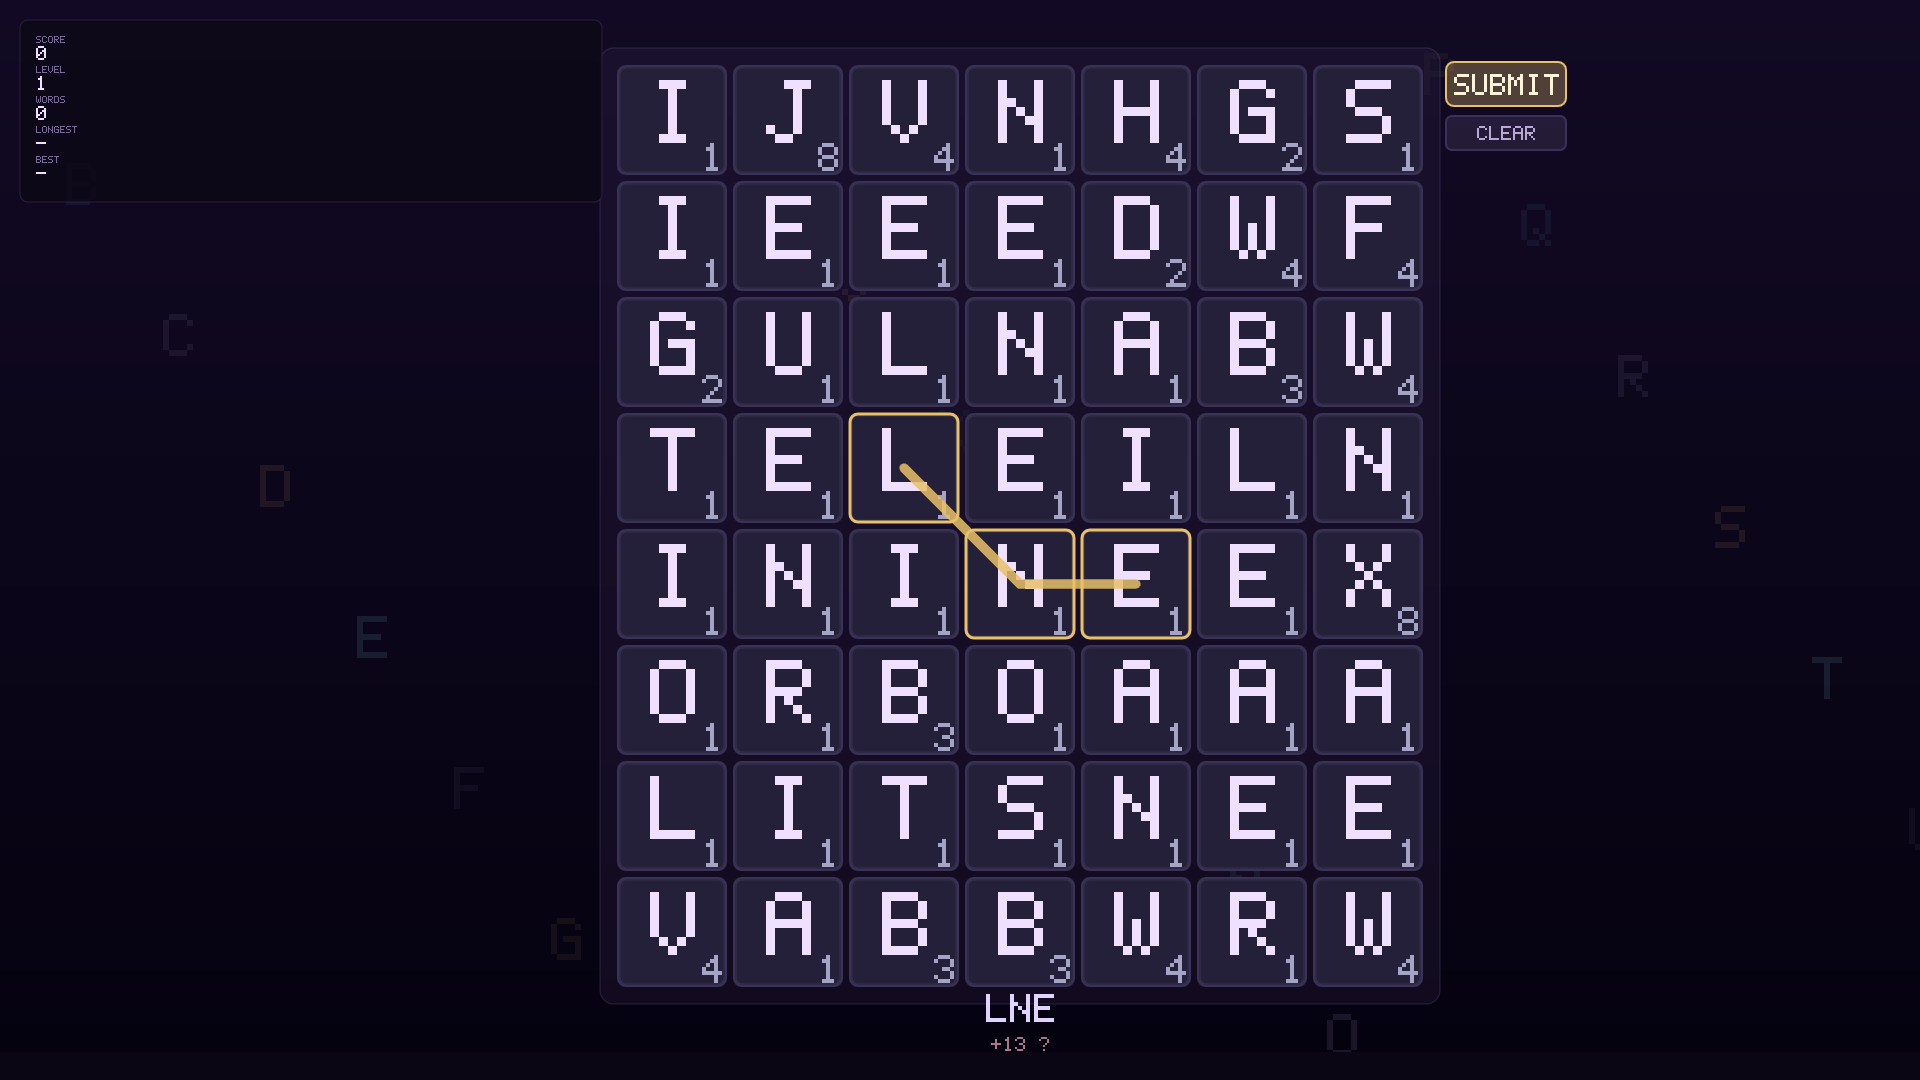
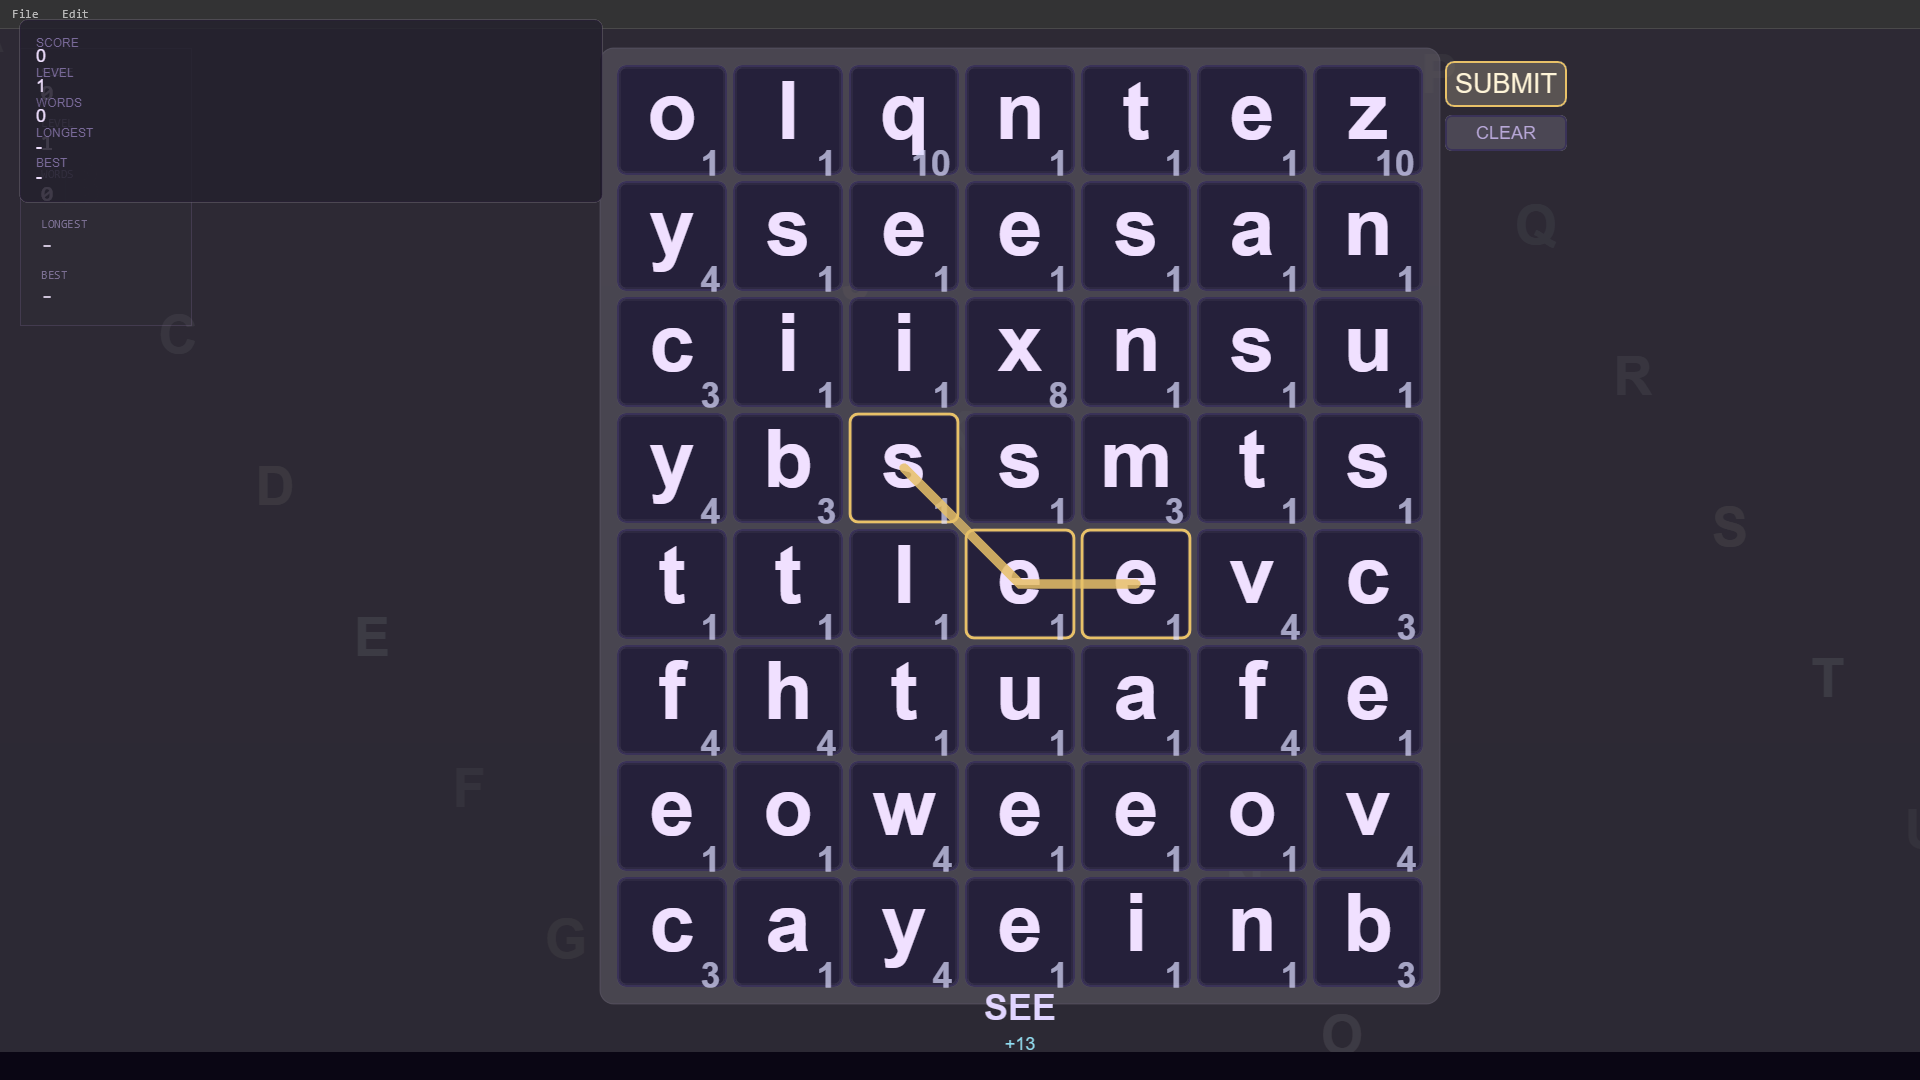
wordspire, fintank: drop bitmap pixelfont, use ctx.fillText
The pixelfont.js files were added on the mistaken premise that ctx.fillText
doesn't render in bro-headless screenshots. It does — confirmed with a
minimal repro. Replace the 5x7 bitmap implementation with a thin W.Text
wrapper around ctx.fillText (draw / drawCentered / measure).

diff --git a/apps/wordspire/board.js b/apps/wordspire/board.js
@@ -717,22 +717,22 @@ W.Board = (function () {
 
         // Pixel-font letter (centered).
         var letterScale = Math.max(2, Math.floor(cell / 12));
-        W.PixelFont.drawCentered(ctx, tile.letter,
+        W.Text.drawCentered(ctx, tile.letter,
                                  rx + w / 2, ry + h / 2 - letterScale,
                                  letterScale, text);
 
         // Letter-value chip bottom-right.
         var v = W.Scoring.letterValue(tile.letter);
         var vScale = Math.max(1, Math.floor(cell / 28));
-        var vw = W.PixelFont.measure(String(v), vScale);
-        W.PixelFont.draw(ctx, String(v),
+        var vw = W.Text.measure(String(v), vScale);
+        W.Text.draw(ctx, String(v),
                          rx + w - vw - 4, ry + h - 7 * vScale - 3,
                          vScale, 'rgba(220,220,255,0.7)');
 
         // Multiplier chip top-left (x2/x3/...).
         if (tile.mult > 1) {
             var mScale = Math.max(1, Math.floor(cell / 28));
-            W.PixelFont.draw(ctx, 'x' + tile.mult, rx + 4, ry + 3, mScale, border);
+            W.Text.draw(ctx, 'x' + tile.mult, rx + 4, ry + 3, mScale, border);
         }
     }
 
@@ -796,7 +796,7 @@ W.Board = (function () {
             ctx.save();
             ctx.globalAlpha = a;
             var ls = Math.max(2, Math.floor(r.cell * (0.08 + (1 - a) * 0.06)));
-            W.PixelFont.drawCentered(ctx, pa.letter, px, py, ls, '#e8c168');
+            W.Text.drawCentered(ctx, pa.letter, px, py, ls, '#e8c168');
             ctx.restore();
         }
 
@@ -808,19 +808,19 @@ W.Board = (function () {
         var word = pathToWord(currentChain, grid);
         if (word) {
             var previewScale = 4;
-            W.PixelFont.drawCentered(ctx, word.toUpperCase(),
+            W.Text.drawCentered(ctx, word.toUpperCase(),
                                      r.x + r.cell * COLS / 2, previewY,
                                      previewScale, '#e0d4ff');
             var predicted = W.Scoring.computeWordScore(word, pathToTiles(currentChain, grid));
             var valid = W.Dictionary.isWord(word);
-            W.PixelFont.drawCentered(ctx, '+' + predicted + (valid ? '' : ' ?'),
+            W.Text.drawCentered(ctx, '+' + predicted + (valid ? '' : ' ?'),
                                      r.x + r.cell * COLS / 2, previewY + 36,
                                      2, valid ? '#8cdff6' : '#aa7788');
         } else {
             var hint = (mode === 'puzzle' && puzzleTarget)
                 ? ('TARGET: ' + puzzleTarget.toUpperCase())
                 : 'CHAIN 3+ LETTERS AND SUBMIT';
-            W.PixelFont.drawCentered(ctx, hint,
+            W.Text.drawCentered(ctx, hint,
                                      r.x + r.cell * COLS / 2, previewY + 8,
                                      2, '#554966');
         }
@@ -847,7 +847,7 @@ W.Board = (function () {
         ctx.strokeStyle = currentChain.length >= 3 ? '#e8c168' : '#3a3258';
         ctx.lineWidth = 2;
         ctx.stroke();
-        W.PixelFont.drawCentered(ctx, 'SUBMIT', bx + bw / 2, by + bh / 2, 3,
+        W.Text.drawCentered(ctx, 'SUBMIT', bx + bw / 2, by + bh / 2, 3,
                                  currentChain.length >= 3 ? '#fff4d8' : '#7a6a9a');
 
         var cx2 = bx, cy2 = by + bh + 10;
@@ -856,7 +856,7 @@ W.Board = (function () {
         ctx.fill();
         ctx.strokeStyle = '#3a3258';
         ctx.stroke();
-        W.PixelFont.drawCentered(ctx, 'CLEAR', cx2 + bw / 2, cy2 + 17, 2, '#b8a8d8');
+        W.Text.drawCentered(ctx, 'CLEAR', cx2 + bw / 2, cy2 + 17, 2, '#b8a8d8');
     }
 
     function drawHudPanel(ctx, r) {
@@ -886,8 +886,8 @@ W.Board = (function () {
         ctx.stroke();
         var yy = y + pad;
         for (var i = 0; i < lines.length; i++) {
-            W.PixelFont.draw(ctx, lines[i][0], x + pad, yy, 1, '#7a6a9a');
-            W.PixelFont.draw(ctx, lines[i][1], x + pad, yy + 10, 2, '#f0e0ff');
+            W.Text.draw(ctx, lines[i][0], x + pad, yy, 1, '#7a6a9a');
+            W.Text.draw(ctx, lines[i][1], x + pad, yy + 10, 2, '#f0e0ff');
             yy += rowH;
         }
 
@@ -908,7 +908,7 @@ W.Board = (function () {
                 ctx.fill();
                 ctx.strokeStyle = '#802015';
                 ctx.stroke();
-                W.PixelFont.draw(ctx, '! BURNING TILE !', x + 10, wy + 9, 2, '#ff4b3d');
+                W.Text.draw(ctx, '! BURNING TILE !', x + 10, wy + 9, 2, '#ff4b3d');
             }
         }
     }

diff --git a/apps/fintank/screens.js b/apps/fintank/screens.js
@@ -57,27 +57,30 @@ F.Screens = (function () {
         ctx.globalAlpha = 1;
     }
 
-    function drawMenu(ctx, Wd, Hd, title, subtitle, items, selIdx, hint) {
+    // DOM overlays (#overlay > .screen) don't composite into bro-headless
+    // screenshots — only the canvas scene layer is captured. So title / slot
+    // / gameover menus are also drawn on canvas. The DOM overlay still owns
+    // click + keyboard navigation; this is the visual twin.
+    function drawMenu(ctx, Wd, Hd, title, subtitle, items, selectedIdx, hint) {
         var cy = Math.floor(Hd * 0.18);
-        W.PixelFont.drawCentered(ctx, title, Wd / 2, cy, 8, '#f2c95b');
+        W.Text.drawCentered(ctx, title, Wd / 2, cy, 8, '#f2c95b');
         if (subtitle) {
-            W.PixelFont.drawCentered(ctx, subtitle, Wd / 2, cy + 64, 3, '#a8c8dc');
+            W.Text.drawCentered(ctx, subtitle, Wd / 2, cy + 64, 3, '#a8c8dc');
         }
         var topY = Math.floor(Hd * 0.5);
         for (var i = 0; i < items.length; i++) {
-            var isSel = (i === selIdx);
+            var isSel = (i === selectedIdx);
             var y = topY + i * 46;
             if (isSel) {
                 ctx.fillStyle = 'rgba(242,201,91,0.18)';
                 ctx.fillRect(Wd * 0.2, y - 12, Wd * 0.6, 34);
             }
-            W.PixelFont.drawCentered(ctx, items[i],
-                                     Wd / 2, y + 4,
-                                     isSel ? 4 : 3,
-                                     isSel ? '#fff8d8' : '#6a8ca8');
+            W.Text.drawCentered(ctx, items[i], Wd / 2, y + 4,
+                                isSel ? 4 : 3,
+                                isSel ? '#fff8d8' : '#6a8ca8');
         }
         if (hint) {
-            W.PixelFont.drawCentered(ctx, hint, Wd / 2, Hd - 40, 2, '#4a6a80');
+            W.Text.drawCentered(ctx, hint, Wd / 2, Hd - 40, 2, '#4a6a80');
         }
     }
 
@@ -127,13 +130,25 @@ F.Screens = (function () {
             for (var i = 1; i <= 3; i++) {
                 var s = F.Economy.loadSlot(i);
                 var fresh = (s.day === 1 && s.fish.length === 0 && s.coins === 200 && !s.bestDay);
-                labels.push('SLOT ' + i + ' - ' + (fresh ? 'NEW' : ('DAY ' + s.day + ' - ' + s.coins + 'C - ' + s.fish.length + ' FISH')));
+                labels.push('SLOT ' + i + ' - ' + (fresh ? 'NEW' :
+                    ('DAY ' + s.day + ' - ' + s.coins + 'C - ' + s.fish.length + ' FISH')));
             }
             labels.push('BACK');
             drawMenu(ctx, Wd, Hd, 'SAVE SLOT', '',
                      labels, selIdx('slots'), 'DEL TO ERASE SELECTED SLOT');
         },
-        refresh: function () {},
+        refresh: function () {
+            var items = mgr.getMenuItems('slots');
+            for (var i = 0; i < items.length; i++) {
+                var slot = items[i].getAttribute('data-slot');
+                if (!slot) continue;
+                var n = parseInt(slot, 10);
+                var s = F.Economy.loadSlot(n);
+                var fresh = (s.day === 1 && s.fish.length === 0 && s.coins === 200 && !s.bestDay);
+                items[i].textContent = 'SLOT ' + n + (fresh ? ' - NEW'
+                    : ' - DAY ' + s.day + ' - ' + s.coins + 'C - ' + s.fish.length + ' FISH');
+            }
+        },
         keydown: function (key) {
             var self = this;
             if (key === 'Delete' || key === 'Backspace') {

diff --git a/apps/wordspire/screens.js b/apps/wordspire/screens.js
@@ -47,18 +47,22 @@ W.Screens = (function () {
             var y = ((i * 151 + bgT * 0.03) % (Hd + 60));
             ctx.globalAlpha = 0.05 + (i % 5) * 0.015;
             var col = i % 3 === 0 ? '#e8c168' : (i % 3 === 1 ? '#8cdff6' : '#c8b8e8');
-            W.PixelFont.drawCentered(ctx, glyphs.charAt(i % glyphs.length),
+            W.Text.drawCentered(ctx, glyphs.charAt(i % glyphs.length),
                                      Math.floor(x), Math.floor(y), 6, col);
         }
         ctx.globalAlpha = 1.0;
     }
 
-    // Big pixel-font title / menu drawn on canvas so it survives screenshots.
+    // The DOM overlay (#overlay > .screen) isn't composited into bro-headless
+    // screenshots — only the canvas scene layer is. To make title / mode /
+    // gameover screens visible both in windowed play AND in screenshot tests,
+    // menus are also drawn on the canvas here. The DOM overlay is what actually
+    // handles clicks and keyboard navigation; this is the visual twin.
     function drawMenu(ctx, Wd, Hd, title, subtitle, items, selectedIdx, hint) {
         var cy = Math.floor(Hd * 0.18);
-        W.PixelFont.drawCentered(ctx, title, Wd / 2, cy, 8, '#e8c168');
+        W.Text.drawCentered(ctx, title, Wd / 2, cy, 8, '#e8c168');
         if (subtitle) {
-            W.PixelFont.drawCentered(ctx, subtitle, Wd / 2, cy + 64, 3, '#b8a8d8');
+            W.Text.drawCentered(ctx, subtitle, Wd / 2, cy + 64, 3, '#b8a8d8');
         }
         var topY = Math.floor(Hd * 0.5);
         for (var i = 0; i < items.length; i++) {
@@ -68,13 +72,12 @@ W.Screens = (function () {
                 ctx.fillStyle = 'rgba(232,193,104,0.18)';
                 ctx.fillRect(Wd * 0.2, y - 16, Wd * 0.6, 40);
             }
-            W.PixelFont.drawCentered(ctx, items[i],
-                                     Wd / 2, y + 4,
-                                     isSel ? 5 : 4,
-                                     isSel ? '#fff4d8' : '#7a6a9a');
+            W.Text.drawCentered(ctx, items[i], Wd / 2, y + 4,
+                                isSel ? 5 : 4,
+                                isSel ? '#fff4d8' : '#7a6a9a');
         }
         if (hint) {
-            W.PixelFont.drawCentered(ctx, hint, Wd / 2, Hd - 40, 2, '#554966');
+            W.Text.drawCentered(ctx, hint, Wd / 2, Hd - 40, 2, '#554966');
         }
     }
 

diff --git a/apps/wordspire/text.js b/apps/wordspire/text.js
@@ -1,0 +1,41 @@
+// text.js — thin canvas-text helpers. Uses ctx.fillText, which renders
+// correctly in both windowed and bro-headless GPU screenshots.
+'use strict';
+var W = window.W = window.W || {};
+
+W.Text = (function () {
+    // The old API took a "scale" (bitmap-font pixel multiplier, ~7px tall per
+    // unit). Map to a comparable sans-serif size so call sites stay terse.
+    function sizeFor(scale) { return Math.max(12, Math.round(scale * 9)); }
+    function weightFor(scale) { return scale >= 4 ? 'bold ' : ''; }
+    function fontFor(scale) { return weightFor(scale) + sizeFor(scale) + 'px sans-serif'; }
+
+    return {
+        // Top-left anchor at (x, y).
+        draw: function (ctx, text, x, y, scale, color) {
+            ctx.save();
+            ctx.font = fontFor(scale);
+            ctx.fillStyle = color || '#fff';
+            ctx.textAlign = 'left';
+            ctx.textBaseline = 'top';
+            ctx.fillText(text, x, y);
+            ctx.restore();
+        },
+        // Centered on (x, y).
+        drawCentered: function (ctx, text, x, y, scale, color) {
+            ctx.save();
+            ctx.font = fontFor(scale);
+            ctx.fillStyle = color || '#fff';
+            ctx.textAlign = 'center';
+            ctx.textBaseline = 'middle';
+            ctx.fillText(text, x, y);
+            ctx.restore();
+        },
+        // Approximate pixel width for the same font settings used by draw().
+        // sans-serif avg char width ≈ 0.55 * size; bold nudges it up slightly.
+        measure: function (text, scale) {
+            var cw = sizeFor(scale) * (scale >= 4 ? 0.6 : 0.55);
+            return text.length * cw;
+        },
+    };
+})();

diff --git a/apps/fintank/text.js b/apps/fintank/text.js
@@ -1,0 +1,35 @@
+// text.js — thin canvas-text helpers. Uses ctx.fillText, which renders
+// correctly in both windowed and bro-headless GPU screenshots.
+'use strict';
+var W = window.W = window.W || {};
+
+W.Text = (function () {
+    function sizeFor(scale) { return Math.max(12, Math.round(scale * 9)); }
+    function weightFor(scale) { return scale >= 4 ? 'bold ' : ''; }
+    function fontFor(scale) { return weightFor(scale) + sizeFor(scale) + 'px sans-serif'; }
+
+    return {
+        draw: function (ctx, text, x, y, scale, color) {
+            ctx.save();
+            ctx.font = fontFor(scale);
+            ctx.fillStyle = color || '#fff';
+            ctx.textAlign = 'left';
+            ctx.textBaseline = 'top';
+            ctx.fillText(text, x, y);
+            ctx.restore();
+        },
+        drawCentered: function (ctx, text, x, y, scale, color) {
+            ctx.save();
+            ctx.font = fontFor(scale);
+            ctx.fillStyle = color || '#fff';
+            ctx.textAlign = 'center';
+            ctx.textBaseline = 'middle';
+            ctx.fillText(text, x, y);
+            ctx.restore();
+        },
+        measure: function (text, scale) {
+            var cw = sizeFor(scale) * (scale >= 4 ? 0.6 : 0.55);
+            return text.length * cw;
+        },
+    };
+})();

diff --git a/apps/fintank/app.js b/apps/fintank/app.js
@@ -481,13 +481,13 @@ F.Game = (function () {
         // HUD overlay on canvas (pixel font for screenshot safety)
         if (slot) {
             var t = Math.max(0, Math.ceil((DAY_MS - dayTimer) / 1000));
-            W.PixelFont.draw(dctx, 'COINS ' + slot.coins, 200, 18, 2, '#f2c95b');
-            W.PixelFont.draw(dctx, 'DAY ' + slot.day, 360, 18, 2, '#a8f06c');
-            W.PixelFont.draw(dctx, 'TIME ' + t, 460, 18, 2, '#8fd6f0');
+            W.Text.draw(dctx, 'COINS ' + slot.coins, 200, 18, 2, '#f2c95b');
+            W.Text.draw(dctx, 'DAY ' + slot.day, 360, 18, 2, '#a8f06c');
+            W.Text.draw(dctx, 'TIME ' + t, 460, 18, 2, '#8fd6f0');
             var alive = 0;
             for (var n = 0; n < fish.length; n++) if (!fish[n].dead) alive++;
-            W.PixelFont.draw(dctx, 'FISH ' + alive + '/' + F.Economy.maxFishCap(slot), 560, 18, 2, '#fff8d8');
-            if (slot.activePet) W.PixelFont.draw(dctx, 'PET ' + slot.activePet.toUpperCase(), 740, 18, 2, '#b06acb');
+            W.Text.draw(dctx, 'FISH ' + alive + '/' + F.Economy.maxFishCap(slot), 560, 18, 2, '#fff8d8');
+            if (slot.activePet) W.Text.draw(dctx, 'PET ' + slot.activePet.toUpperCase(), 740, 18, 2, '#b06acb');
         }
     }
 

diff --git a/apps/fintank/particles.js b/apps/fintank/particles.js
@@ -119,7 +119,7 @@ F.Particles = (function () {
                 ctx.arc(p.x, p.y, 2.5, 0, Math.PI * 2);
                 ctx.fill();
             } else if (p.kind === 'text') {
-                W.PixelFont.drawCentered(ctx, p.text, p.x, p.y, 2, p.color);
+                W.Text.drawCentered(ctx, p.text, p.x, p.y, 2, p.color);
             }
         }
         ctx.globalAlpha = 1;
@@ -143,5 +143,4 @@ F.Particles = (function () {
     };
 })();
 
-// share PixelFont under W as in wordspire
 window.W = window.W || {};

diff --git a/apps/fintank/fish.js b/apps/fintank/fish.js
@@ -206,7 +206,7 @@ F.Fish = (function () {
         if (!f.dead && hungry) {
             ctx.save();
             ctx.globalAlpha = 0.7 + 0.3 * Math.sin(f.wag * 2);
-            W.PixelFont.drawCentered(ctx, '!', f.x, f.y - sz - 14, 2, '#ff9a6a');
+            W.Text.drawCentered(ctx, '!', f.x, f.y - sz - 14, 2, '#ff9a6a');
             ctx.restore();
         }
     }

diff --git a/apps/fintank/index.html b/apps/fintank/index.html
@@ -139,7 +139,7 @@
     <script src="../lib/storage.js"></script>
     <script src="../lib/hud.js"></script>
     <script src="../lib/screens.js"></script>
-    <script src="pixelfont.js"></script>
+    <script src="text.js"></script>
     <script src="audio.js"></script>
     <script src="economy.js"></script>
     <script src="particles.js"></script>

diff --git a/apps/wordspire/index.html b/apps/wordspire/index.html
@@ -166,7 +166,7 @@
     <script src="audio.js"></script>
     <script src="dictionary.js"></script>
     <script src="scoring.js"></script>
-    <script src="pixelfont.js"></script>
+    <script src="text.js"></script>
     <script src="particles.js"></script>
     <script src="board.js"></script>
     <script src="screens.js"></script>
